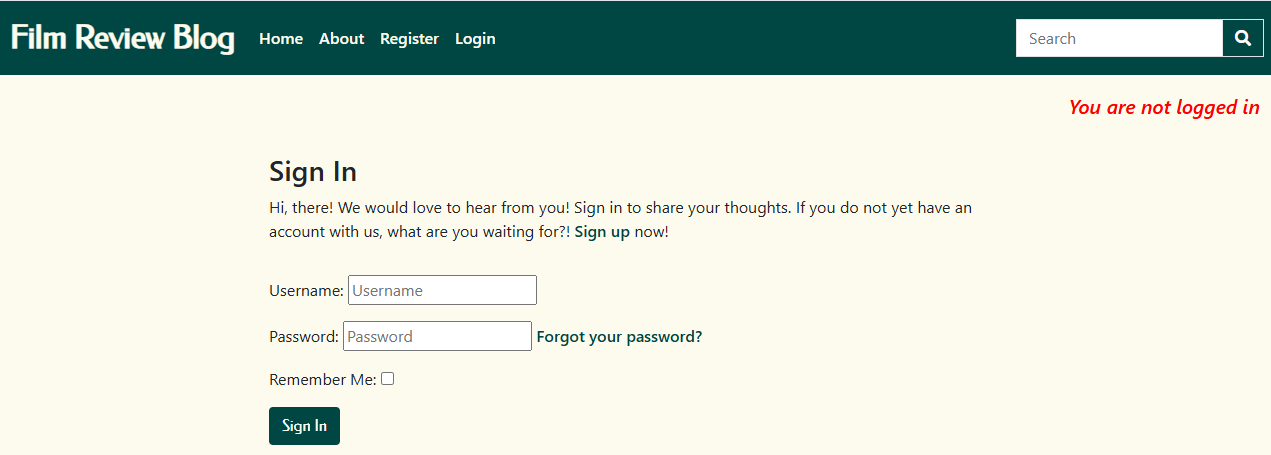
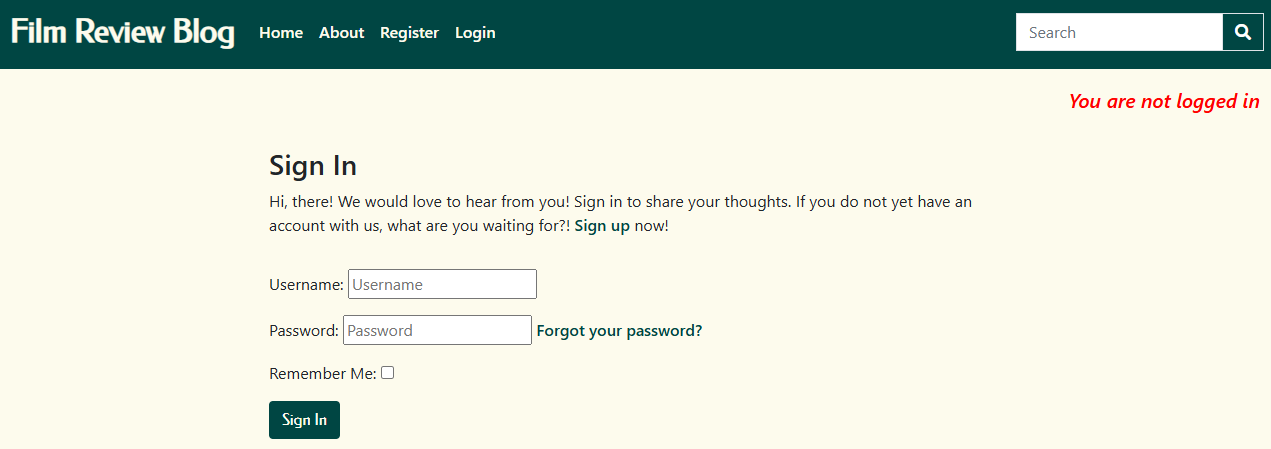
Add user authentication to submit review request

diff --git a/review/templates/review/about.html b/review/templates/review/about.html
@@ -38,8 +38,15 @@
         <p class="text-white card-text about-text">Want me to review a film? Submit here!</p>
           {% csrf_token %}
           {{ form.as_p }}
+          {% if user.is_authenticated %}
           <button type="submit" class="btn btn-signup btn-lg btn-outline-success mt-2">Submit Request</button>
         </form>
+        {% else %}
+            <div class="text-white">
+              <a href="{% url 'account_login' %}?next={{ request.path }}" class="text-white submit-link">Login</a> or
+              <a href="{% url 'account_signup' %}?next={{ request.path }}" class="text-white submit-link">Register</a> to submit your request
+            </div>
+        {% endif %}
       </div>
     </div>
   </div>

diff --git a/static/css/style.css b/static/css/style.css
@@ -262,6 +262,16 @@ a {
     color: #004643;
 }
 
+.submit-link {
+    text-decoration: underline;
+}
+
+.submit-link:hover {
+    transform: scale(1.25);
+    transition: all 0.5s ease-in-out;
+    opacity: 0.5;
+}
+
 /* Fade-in animation */
 @keyframes fadeIn {
   from { opacity: 0; transform: translateY(20px); }

diff --git a/staticfiles/css/style.css b/staticfiles/css/style.css
@@ -262,6 +262,16 @@ a {
     color: #004643;
 }
 
+.submit-link {
+    text-decoration: underline;
+}
+
+.submit-link:hover {
+    transform: scale(1.25);
+    transition: all 0.5s ease-in-out;
+    opacity: 0.5;
+}
+
 /* Fade-in animation */
 @keyframes fadeIn {
   from { opacity: 0; transform: translateY(20px); }

diff --git a/README.md b/README.md
@@ -158,9 +158,11 @@ The font used in this project was inspired by a desire to use an uncommon font w
 
 ### Register
 <img src="images/filmreview-signup.png" alt="Signup Page" style="width: 100%;"><br>
+- The blogsite offers users the option to register for full access to the site's functionality.
 
 ### Login
 <img src="images/filmreview-signin.png" alt="Login Page" style="width: 100%;"><br>
+- The blogsite offers returning users the option to login to continue with access to the site's functionality.
 
 ### About
 
